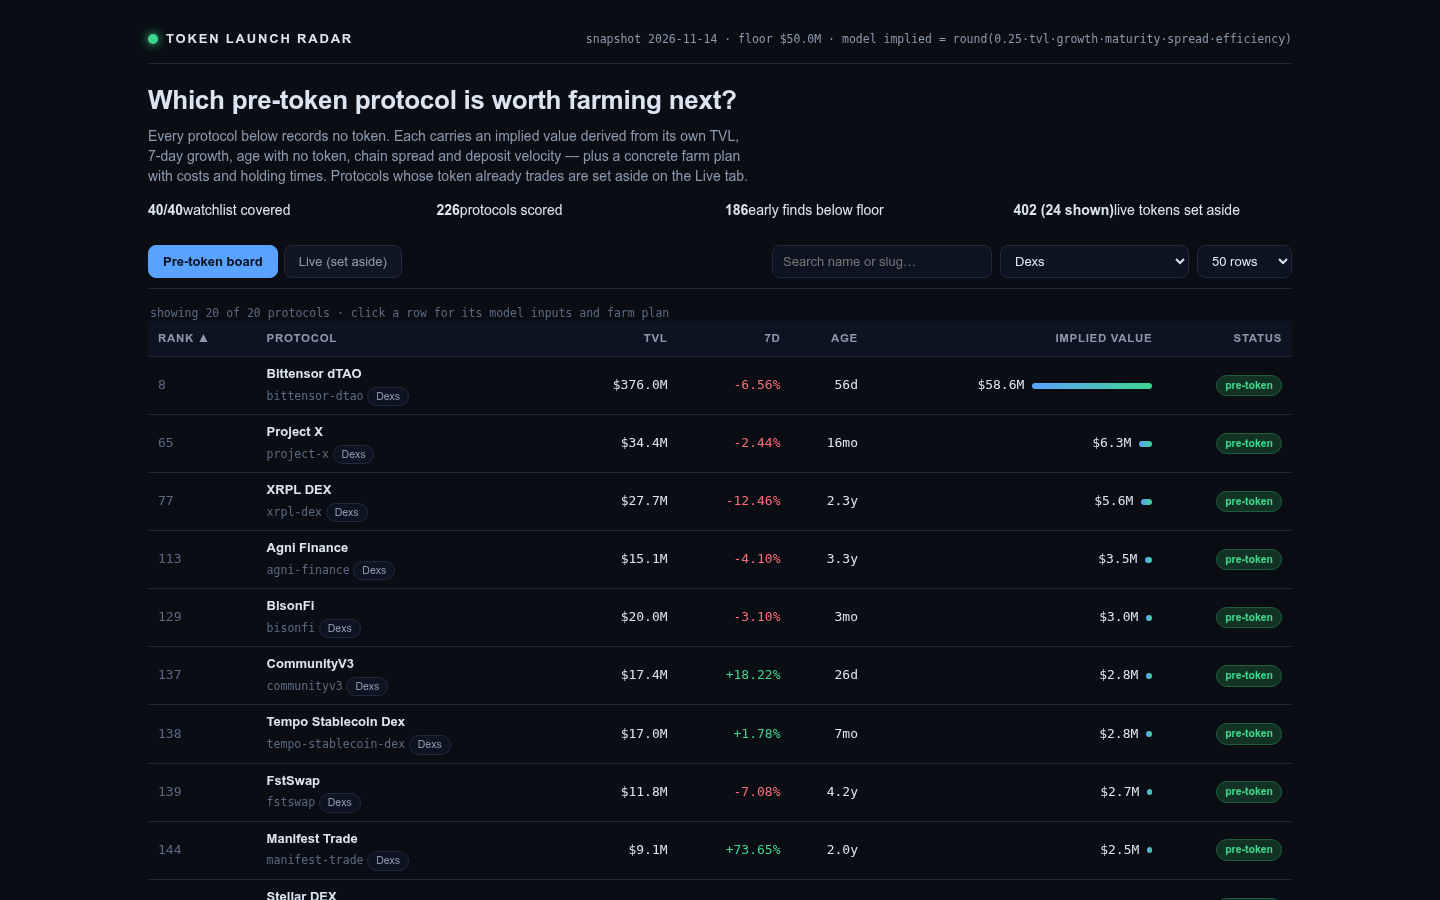
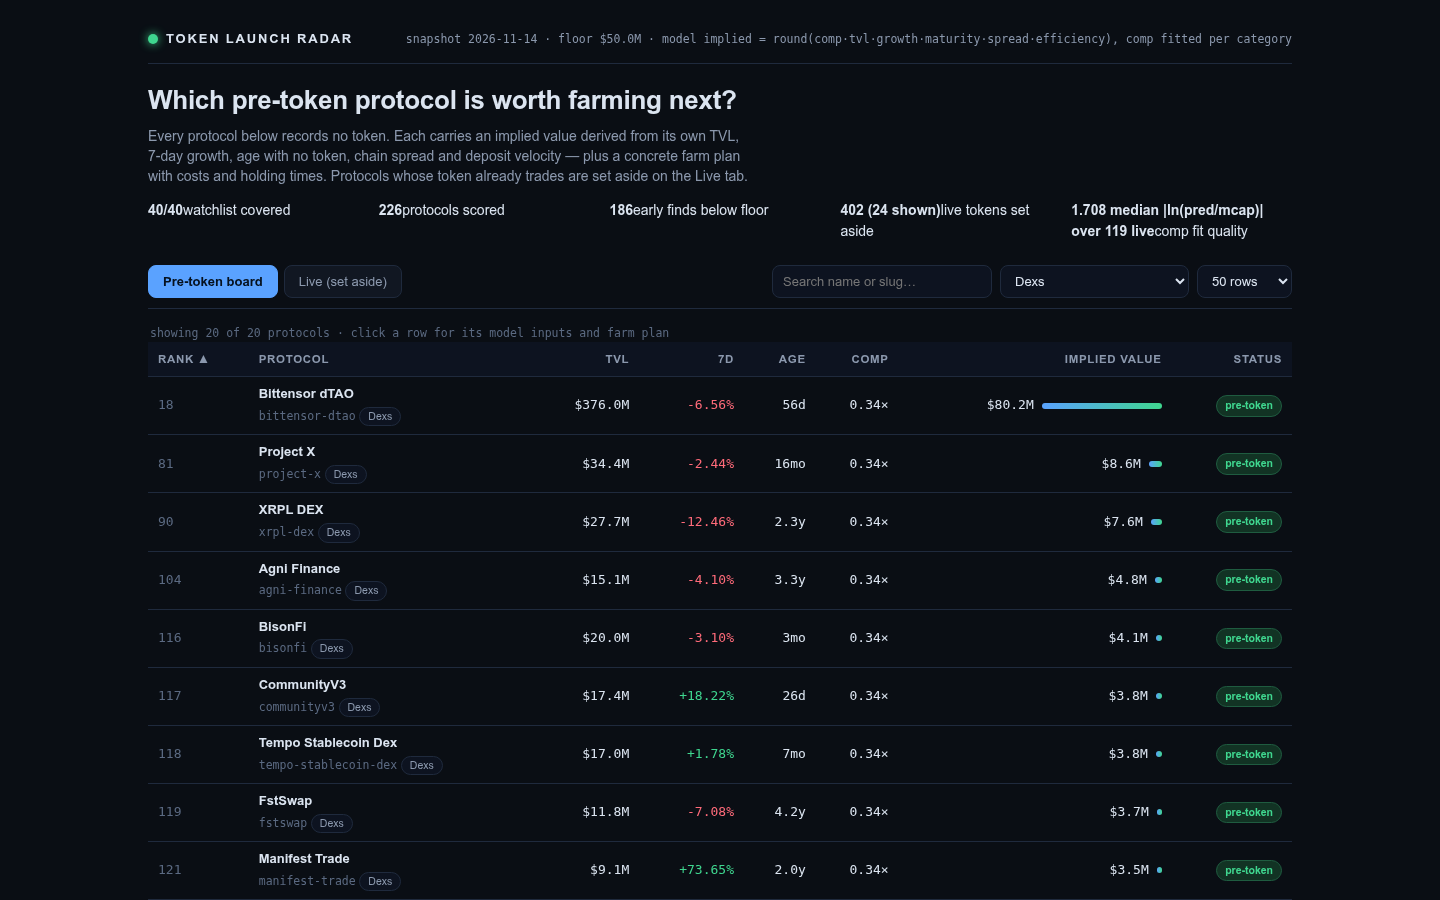
comps-fitted value model with stated fit quality and costed farm plans

diff --git a/lib/model.ts b/lib/model.ts
@@ -1,9 +1,16 @@
 // Token-launch radar: value model for pre-token protocols.
 //
-// Every number comes from the snapshot's own figures for one protocol:
-// TVL, its 7-day change, how long it has run (listed_at vs as_of), how many
-// chains it spans, and the velocity of deposits over its lifetime. No
-// protocol name is special-cased anywhere in this file.
+// The base multiple is not a fixed constant: it is fitted from the
+// snapshot's own live-token protocols (non-CEX, with both mcap_usd and
+// tvl_usd) as the median mcap/tvl per category, falling back to the global
+// median for unseen categories, clamped into [COMP_LO, COMP_HI].
+// Everything else comes from one protocol's own snapshot figures: TVL, its
+// 7-day change, how long it has run (listed_at vs as_of), how many chains
+// it spans, and the velocity of deposits over its lifetime. No protocol
+// name is special-cased anywhere in this file.
+
+export const COMP_LO = 0.05;
+export const COMP_HI = 2.0;
 
 export interface ProtocolInput {
   slug: string;
@@ -17,6 +24,8 @@ export interface ProtocolInput {
 
 export interface ModelBreakdown {
   base: number;
+  compMult: number;
+  compSource: string;
   growth: number;
   growthMult: number;
   ageDays: number | null;
@@ -57,13 +66,87 @@ export function clamp(x: number, lo: number, hi: number): number {
   return x < lo ? lo : x > hi ? hi : x;
 }
 
+/** Median of a non-empty list; NaN when empty. */
+export function median(xs: number[]): number {
+  if (xs.length === 0) return NaN;
+  const s = [...xs].sort((a, b) => a - b);
+  const n = s.length;
+  return n % 2 === 1 ? s[(n - 1) / 2]! : (s[n / 2 - 1]! + s[n / 2]!) / 2;
+}
+
+export interface CompLive {
+  category: string | null;
+  mcap_usd: number;
+  tvl_usd: number;
+}
+
+export interface CompFit {
+  byCategory: Record<string, number>;
+  byCategoryN: Record<string, number>;
+  global: number;
+  liveCount: number;
+  /** Median |ln(predicted/actual)| over the live set, leave-one-out. */
+  medAbsLogErr: number;
+  method: string;
+}
+
 /**
- * Score one protocol: a quarter of TVL, scaled by growth momentum, by how
- * long it has run without a token, by chain spread, and by deposit velocity.
+ * Fit category comps from live-token protocols: median mcap/tvl per
+ * category, global median fallback, everything clamped into
+ * [COMP_LO, COMP_HI]. Fit quality is the median absolute log error of the
+ * comp prediction on the live set, each protocol predicted by comps fitted
+ * without it (leave-one-out).
  */
-export function scoreProtocol(p: ProtocolInput, asOf: string): ModelBreakdown {
+export function fitComps(live: CompLive[]): CompFit {
+  const usable = live.filter((p) => Number.isFinite(p.mcap_usd) && p.mcap_usd > 0 &&
+    Number.isFinite(p.tvl_usd) && p.tvl_usd > 0);
+  const ratios = (ps: CompLive[]): number[] => ps.map((p) => p.mcap_usd / p.tvl_usd);
+  const perCat = new Map<string, CompLive[]>();
+  for (const p of usable) {
+    const c = p.category ?? "Uncategorized";
+    if (!perCat.has(c)) perCat.set(c, []);
+    perCat.get(c)!.push(p);
+  }
+  const byCategory: Record<string, number> = {};
+  const byCategoryN: Record<string, number> = {};
+  for (const [c, ps] of perCat) {
+    byCategory[c] = clamp(median(ratios(ps)), COMP_LO, COMP_HI);
+    byCategoryN[c] = ps.length;
+  }
+  const global = clamp(median(ratios(usable)), COMP_LO, COMP_HI);
+  const errs: number[] = [];
+  for (let i = 0; i < usable.length; i++) {
+    const p = usable[i]!;
+    const c = p.category ?? "Uncategorized";
+    const catOthers = perCat.get(c)!.filter((q) => q !== p);
+    const comp = catOthers.length > 0
+      ? clamp(median(ratios(catOthers)), COMP_LO, COMP_HI)
+      : clamp(median(ratios(usable.filter((q) => q !== p))), COMP_LO, COMP_HI);
+    const pred = Math.max(1e-9, p.tvl_usd * comp);
+    errs.push(Math.abs(Math.log(pred / p.mcap_usd)));
+  }
+  const medAbsLogErr = errs.length > 0 ? median(errs) : NaN;
+  return {
+    byCategory, byCategoryN, global, liveCount: usable.length, medAbsLogErr,
+    method: "median mcap/tvl per category over live non-CEX protocols (global median fallback), clamped to [0.05, 2.0]; quality = median |ln(pred/mcap)| leave-one-out",
+  };
+}
+
+/** Comp multiple and a human-readable source label for one category. */
+export function compFor(fit: CompFit, category: string | null): { mult: number; source: string } {
+  const c = category ?? "Uncategorized";
+  if (c in fit.byCategory) return { mult: fit.byCategory[c]!, source: `category ${c} median (n=${fit.byCategoryN[c]})` };
+  return { mult: fit.global, source: `global median fallback (n=${fit.liveCount})` };
+}
+
+/**
+ * Score one protocol: TVL times its category comp multiple, scaled by
+ * growth momentum, by how long it has run without a token, by chain
+ * spread, and by deposit velocity.
+ */
+export function scoreProtocol(p: ProtocolInput, asOf: string, compMult = 0.25, compSource = "fixed 0.25"): ModelBreakdown {
   const age = ageDays(p.listed_at, asOf);
-  const base = p.tvl_usd * 0.25;
+  const base = p.tvl_usd * compMult;
   const growth = clamp(p.change_7d ?? 0, -60, 120);
   const growthMult = 1 + (growth / 100) * 0.5;
   const maturity = 0.6 + (Math.min(Math.max(age ?? 365, 0), 1095) / 1095) * 0.4;
@@ -71,7 +154,7 @@ export function scoreProtocol(p: ProtocolInput, asOf: string): ModelBreakdown {
   const velocity = p.tvl_usd / Math.max(age ?? 365, 30);
   const efficiency = 0.9 + 0.2 * clamp(Math.log10(1 + velocity / 1e6) / 2, 0, 1);
   const implied = Math.max(1, Math.round(base * growthMult * maturity * spread * efficiency));
-  return { base, growth, growthMult, ageDays: age, maturity, spread, velocity, efficiency, implied };
+  return { base, compMult, compSource, growth, growthMult, ageDays: age, maturity, spread, velocity, efficiency, implied };
 }
 
 /** Native gas to keep on the first chain, in that chain's own gas units. */
@@ -190,6 +273,28 @@ export function endDate(asOf: string, holdDays: number): string {
   return new Date(t + holdDays * 86400000).toISOString().slice(0, 10);
 }
 
+export interface PlanCost {
+  capital_usd: number;
+  gas: { chain: string; units: number }[];
+  gas_total_units: number;
+  line: string;
+}
+
+/**
+ * Explicit per-plan cost total: working capital plus summed gas units over
+ * the protocol's chains. Gas stays in native units (no invented prices).
+ */
+export function planCost(p: ProtocolInput): PlanCost {
+  const capital = capitalFor(p.tvl_usd);
+  const chains = p.chains.length > 0 ? p.chains : ["Ethereum"];
+  const gas = chains.map((chain) => ({ chain, units: gasFor(chain) }));
+  const total = gas.reduce((s, g) => s + g.units, 0);
+  const line =
+    `Plan cost total: about $${capital} working capital plus ${total} ` +
+    `summed gas units across ${chains.length} chain${chains.length === 1 ? "" : "s"} for fees.`;
+  return { capital_usd: capital, gas, gas_total_units: total, line };
+}
+
 /** Seven concrete farm steps for one protocol; each trims to 20-600 characters. */
 export function farmSteps(p: ProtocolInput, asOf = "2026-11-14"): string[] {
   const first = p.chains[0] ?? "Ethereum";
@@ -202,7 +307,7 @@ export function farmSteps(p: ProtocolInput, asOf = "2026-11-14"): string[] {
   const end = endDate(asOf, hold);
   return [
     `Open a fresh wallet used only for ${p.name} on ${first}; back up the seed phrase offline and never mix it with other farms.`,
-    `Fund it with ${moneyStr(capital)} for the position plus ${gasFor(first)} ${first} gas for fees, in a single transfer from an exchange.`,
+    `Fund it with ${moneyStr(capital)} for the position plus gas for fees, in a single transfer from an exchange. ${planCost(p).line}`,
     actionFor(p.category, capital, first, p.name),
     `Work a ${weeks}-week rotation on ${first}, one touch per week on different weekdays: (a) repeat the qualifying ${verb} above, (b) add a small about $${touch} top-up or swap, (c) open the points page with the farming wallet — then cycle.`,
     `Leave the position working until at least ${end} (${hold} days from the ${asOf} snapshot); avoid early withdrawals since age and consistency are what a snapshot rewards.`,

diff --git a/dashboard/app.js b/dashboard/app.js
@@ -34,7 +34,8 @@
 
   /* Same arithmetic as lib/model.ts scoreProtocol, run in-page per row. */
   function recompute(r) {
-    var base = r.tvl_usd * 0.25;
+    var cm = (r.model && r.model.compMult) || 0.25;
+    var base = r.tvl_usd * cm;
     var g = r.change_7d == null ? 0 : Math.min(120, Math.max(-60, r.change_7d));
     var gm = 1 + (g / 100) * 0.5;
     var a = r.age_days == null ? 365 : r.age_days;
@@ -83,6 +84,9 @@
       var x, y;
       if (k === "name") { x = a.name.toLowerCase(); y = b.name.toLowerCase(); return x < y ? -d : x > y ? d : 0; }
       if (k === "tvl") { x = a.tvl_usd; y = b.tvl_usd; }
+      else if (k === "comp") {
+        x = (a.model && a.model.compMult) || 0; y = (b.model && b.model.compMult) || 0;
+      }
       else if (k === "change") { x = a.change_7d == null ? -1e18 : a.change_7d; y = b.change_7d == null ? -1e18 : b.change_7d; }
       else if (k === "age") { x = a.age_days == null ? -1 : a.age_days; y = b.age_days == null ? -1 : b.age_days; }
       else if (k === "value") { x = valOf(a); y = valOf(b); }
@@ -94,7 +98,7 @@
 
   var COLS = [
     ["rank", "Rank"], ["name", "Protocol"], ["tvl", "TVL"],
-    ["change", "7d"], ["age", "Age"], ["value", "Implied value"], ["status", "Status"],
+    ["change", "7d"], ["age", "Age"], ["comp", "Comp"], ["value", "Implied value"], ["status", "Status"],
   ];
 
   function renderHead() {
@@ -128,11 +132,12 @@
         ? '<span class="badge pre">pre-token</span>' : '<span class="badge live">live</span>';
       var rankCell = r.rank != null && r.rank <= 3 && state.tab === "pre"
         ? '<span class="medal m' + r.rank + '">' + r.rank + "</span>" : (r.rank || "—");
-      return '<tr data-slug="' + esc(r.slug) + '"' + (state.open === r.slug ? ' class="sel"' : "") + ">" +
+      return '<tr data-slug="' + esc(r.slug) + '"' + (state.open === r.slug ? ' class="sel"' : "") + '">' +
         "<td>" + rankCell + "</td>" +
         '<td><span class="name">' + esc(r.name) + '</span><br><span class="slug">' + esc(r.slug) +
         '</span> <span class="catchip">' + esc(r.category || "Uncategorized") + "</span></td>" +
         "<td>" + usd(r.tvl_usd) + "</td><td>" + pct(r.change_7d) + "</td><td>" + age(r.age_days) + "</td>" +
+        "<td>" + (r.model && r.model.compMult != null ? Number(r.model.compMult).toFixed(2) + "×" : "—") + "</td>" +
         "<td>" + val + "</td><td>" + badge + "</td></tr>";
     }).join("");
     Array.prototype.forEach.call($("rows").children, function (tr) {
@@ -173,12 +178,17 @@
         fact("chains (" + r.chains.length + ")", r.chains.join(", ")) + "</div>";
       if (r.model) {
         mid += "<h3>Derived factors</h3><div class=\"facts\">" +
-          fact("base 0.25×TVL", usd(Math.round(r.model.base))) +
+          fact("comp " + (r.category || "Uncategorized") + " ×",
+            Number(r.model.compMult).toFixed(4) + " · " + String(r.model.compSource || "")) +
+          fact("base comp×TVL", usd(Math.round(r.model.base))) +
           fact("growth mult", Number(r.model.growthMult).toFixed(3) + "×") +
           fact("maturity", Number(r.model.maturity).toFixed(3) + "×") +
           fact("spread", Number(r.model.spread).toFixed(3) + "×") +
           fact("efficiency", Number(r.model.efficiency).toFixed(3) + "×") +
           fact("implied", usd(r.implied_value_usd)) + "</div>";
+      }
+      if (r.plan_cost && r.plan_cost.line) {
+        mid += '<div class="match ok">' + esc(r.plan_cost.line) + "</div>";
       }
       mid += "<h3>Farm plan</h3><ol>" + r.farm_steps.map(function (s) { return "<li>" + esc(s) + "</li>"; }).join("") + "</ol>";
     } else {
@@ -193,13 +203,17 @@
   }
 
   function renderStatic() {
+    var m = meta.model || {};
     $("meta").textContent = "snapshot " + meta.as_of + " · floor " + usd(meta.floor_usd) +
-      " · model implied = round(0.25·tvl·growth·maturity·spread·efficiency)";
+      " · model implied = round(comp·tvl·growth·maturity·spread·efficiency), comp fitted per category";
+    var fitTxt = (m.fit_med_abs_log_err != null ? Number(m.fit_med_abs_log_err).toFixed(3) : "n/a") +
+      " median |ln(pred/mcap)| over " + (m.fit_live_protocols != null ? m.fit_live_protocols : "?") + " live";
     $("kpis").innerHTML =
       fact("watchlist covered", meta.watchlist_covered + "/" + meta.watchlist_total) +
       fact("protocols scored", String(meta.rows_scored)) +
       fact("early finds below floor", String(meta.early_below_floor)) +
-      fact("live tokens set aside", String(meta.live_set_aside) + " (" + meta.live_shown + " shown)");
+      fact("live tokens set aside", String(meta.live_set_aside) + " (" + meta.live_shown + " shown)") +
+      fact("comp fit quality", fitTxt);
     var cats = {};
     rows.forEach(function (r) { cats[r.category || "Uncategorized"] = 1; });
     var sel = $("cat"), keep = state.cat;
@@ -207,12 +221,17 @@
       return '<option value="' + esc(c) + '">' + esc(c) + "</option>";
     }).join("");
     sel.value = keep;
-    $("formula").innerHTML = "implied = round(0.25 × tvl × <code>(1+g/200)</code> × " +
-      "<code>maturity</code> × <code>spread</code> × <code>efficiency</code>), strongest first.";
-    var terms = [["base", "tvl_usd × 0.25"], ["g", "clamp(change_7d ?? 0, −60, 120)"],
+    $("formula").innerHTML = "implied = round(comp × tvl × <code>(1+g/200)</code> × " +
+      "<code>maturity</code> × <code>spread</code> × <code>efficiency</code>), strongest first. " +
+      "comp = this row's category median mcap/tvl over live tokens (global fallback), clamped [0.05, 2.0].";
+    var terms = [["comp", "category median mcap/tvl over live non-CEX, clamped [0.05, 2.0]; global median fallback"],
+      ["base", "tvl_usd × comp"], ["g", "clamp(change_7d ?? 0, −60, 120)"],
       ["maturity", "0.6 + min(max(age ?? 365,0),1095)/1095 × 0.4"], ["spread", "1 + 0.05 × min(chains, 8)"],
       ["velocity", "tvl / max(age ?? 365, 30)"], ["efficiency", "0.9 + 0.2 × clamp(log10(1+v/1e6)/2, 0, 1)"]];
     $("terms").innerHTML = terms.map(function (t) { return "<dt>" + t[0] + "</dt><dd>" + esc(t[1]) + "</dd>"; }).join("");
+    $("fit").textContent = "Fit quality: " + fitTxt + " (leave-one-out; " +
+      (m.fit_method || "category median mcap/tvl") + "). Global fallback comp " +
+      (m.fit_global_median != null ? Number(m.fit_global_median).toFixed(4) : "n/a") + ", band [0.05, 2.0].";
     $("foot").textContent = "token launch radar · snapshot " + meta.as_of + " · " + rows.length +
       " pre-token rows ranked strongest first · implied values are the entry's own claim, not financial advice";
   }

diff --git a/main.ts b/main.ts
@@ -10,7 +10,7 @@
 import { existsSync, mkdirSync, readFileSync, rmSync, statSync, writeFileSync, cpSync } from "node:fs";
 import { dirname, join, resolve } from "node:path";
 import { fileURLToPath } from "node:url";
-import { ageDays, farmSteps, isRankable, scoreProtocol } from "./lib/model.ts";
+import { ageDays, compFor, farmSteps, fitComps, isRankable, planCost, scoreProtocol } from "./lib/model.ts";
 import { buildDossier } from "./vendor/makefun-board.ts";
 
 const ROOT = dirname(fileURLToPath(import.meta.url));
@@ -79,19 +79,31 @@ for (const p of snap.protocols) {
 interface Scored {
   p: SnapshotProtocol;
   implied: number;
-  model: Record<string, number | null>;
+  model: Record<string, number | string | null>;
   age: number | null;
   steps: string[];
+  cost: { capital_usd: number; gas: { chain: string; units: number }[]; gas_total_units: number; line: string };
 }
+
+// Category comps fitted from the snapshot's own live-token protocols:
+// non-CEX protocols carrying both mcap_usd and tvl_usd.
+const fit = fitComps(
+  snap.protocols
+    .filter((p) => p.category !== "CEX" && p.mcap_usd !== null && p.tvl_usd !== null)
+    .map((p) => ({ category: p.category, mcap_usd: p.mcap_usd!, tvl_usd: p.tvl_usd })),
+);
 
 const scored: Scored[] = [];
 for (const p of picked.values()) {
-  const m = scoreProtocol(p, asOf);
+  const comp = compFor(fit, p.category);
+  const m = scoreProtocol(p, asOf, comp.mult, comp.source);
   scored.push({
     p,
     implied: m.implied,
     model: {
       base: m.base,
+      compMult: m.compMult,
+      compSource: m.compSource,
       growth: m.growth,
       growthMult: m.growthMult,
       maturity: m.maturity,
@@ -101,6 +113,7 @@ for (const p of picked.values()) {
     },
     age: m.ageDays,
     steps: farmSteps(p, asOf),
+    cost: planCost(p),
   });
 }
 
@@ -123,6 +136,7 @@ const rows = scored.map((s, i) => ({
   age_days: s.age,
   implied_value_usd: s.implied,
   model: s.model,
+  plan_cost: s.cost,
   farm_steps: s.steps,
 }));
 
@@ -205,8 +219,13 @@ const payload = {
     live_set_aside: liveTotal,
     live_shown: live.length,
     model: {
-      formula: "implied = round(0.25*tvl * (1+clamp(change_7d,0)/200) * maturity * spread * efficiency)",
-      base: "tvl_usd*0.25",
+      formula: "implied = round(comp*tvl * (1+clamp(change_7d,0)/200) * maturity * spread * efficiency), comp = category median mcap/tvl over live non-CEX protocols, clamped to [0.05, 2.0], global median fallback",
+      base: "tvl_usd*compMult",
+      comp: "median(mcap_usd/tvl_usd) per category over live non-CEX protocols with both figures, clamped to [0.05, 2.0]; unseen categories use the global median",
+      fit_live_protocols: fit.liveCount,
+      fit_med_abs_log_err: fit.medAbsLogErr,
+      fit_method: fit.method,
+      fit_global_median: fit.global,
       growth: "clamp(change_7d ?? 0,-60,120)",
       growthMult: "1+growth/100*0.5",
       maturity: "0.6+min(max(age_days ?? 365,0),1095)/1095*0.4",
@@ -230,4 +249,8 @@ writeFileSync(join(outDir, "dossier.json"), Buffer.from(buildDossier(outDir, { t
 
 console.log(
   `radar: ${rows.length} rows (watchlist ${snap.watchlist.length}/${snap.watchlist.length}, early below floor ${earlyBelow}, live set aside ${liveTotal}) -> ${outDir}`,
+);
+console.log(
+  `comps: fitted over ${fit.liveCount} live protocols, global median ${fit.global.toFixed(4)}, ` +
+  `median |ln(pred/mcap)| leave-one-out ${fit.medAbsLogErr.toFixed(4)} (band [0.05, 2.0])`,
 );

diff --git a/dashboard/index.html b/dashboard/index.html
@@ -55,6 +55,7 @@
   <section class="model" id="model">
     <h2>The value model</h2>
     <p id="formula"></p>
+    <p class="note" id="fit"></p>
     <dl id="terms"></dl>
     <p class="note">An implied value is this entry's own claim from the snapshot's figures — never a
     prediction of whether or when a token is issued, and never financial advice. A protocol listed here
